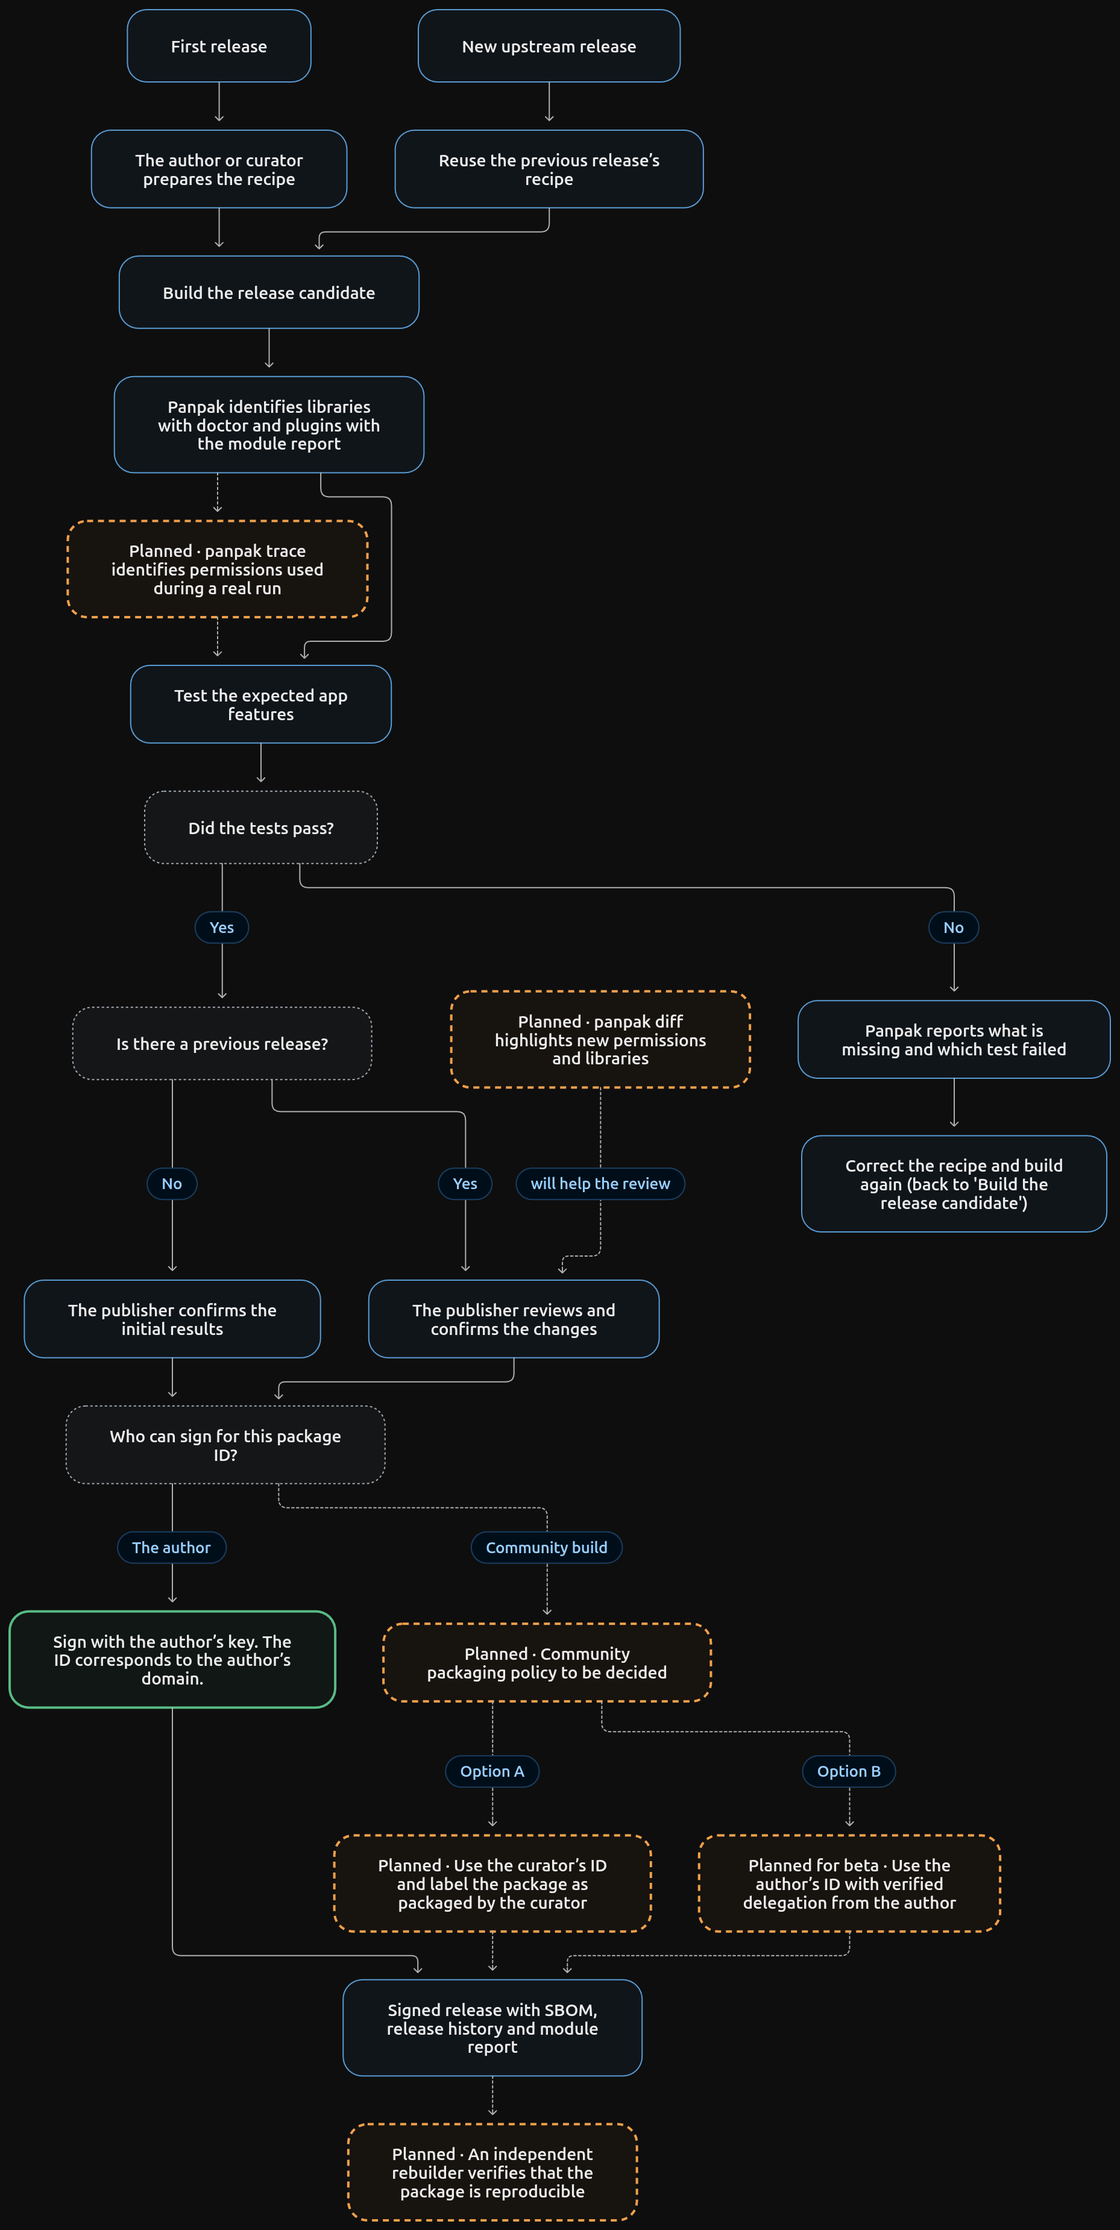
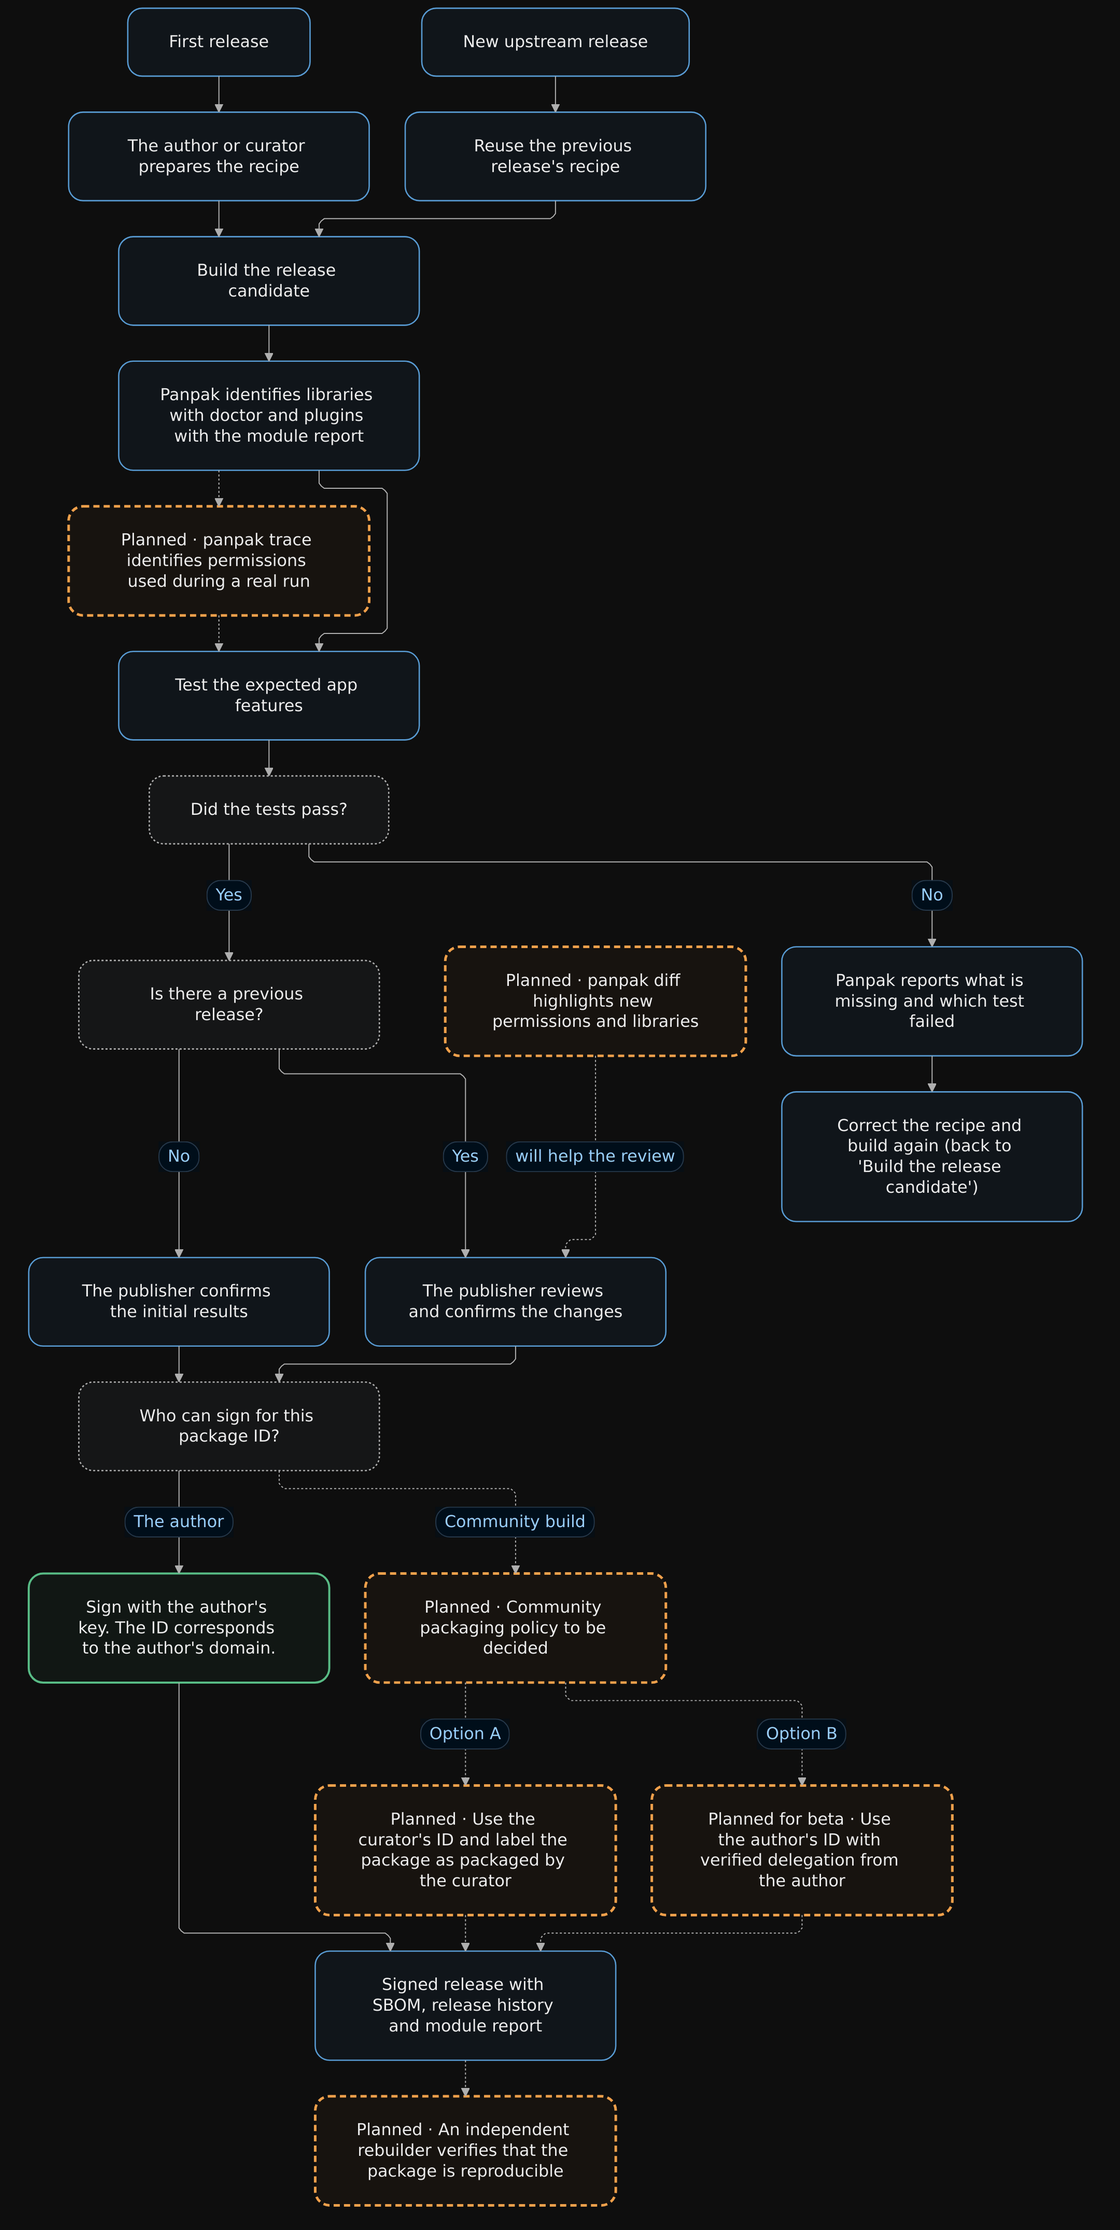
Render the workflow diagrams from their Mermaid sources

diff --git a/scripts/render-diagrams.py b/scripts/render-diagrams.py
@@ -1,0 +1,55 @@
+#!/usr/bin/env python3
+"""Render the Mermaid sources and both responsive image formats used on How it works."""
+
+import os
+from pathlib import Path
+import subprocess
+import tempfile
+
+from PIL import Image, ImageOps
+
+ROOT = Path(__file__).resolve().parents[1]
+DIAGRAMS = Path("static/images/diagrams")
+RENDERER = (
+    "ghcr.io/mermaid-js/mermaid-cli/mermaid-cli:11.12.0"
+    "@sha256:bad64c9d9ad917c8dfbe9d9e9c162b96f6615ff019b37058638d16eb27ce7783"
+)
+BACKGROUND = "#0e0e0e"
+CANVASES = {
+    "from-app-to-package": (1858, 3700),
+    "from-package-to-user": (2014, 4200),
+}
+
+
+def main():
+    # Stage both diagrams before replacing any published image.
+    with tempfile.TemporaryDirectory(dir=ROOT) as work:
+        staged = Path(work)
+        for name, size in CANVASES.items():
+            raw = staged / f"{name}.png"
+            subprocess.run(
+                [
+                    "docker", "run", "--rm", "--network", "none",
+                    "--user", f"{os.getuid()}:{os.getgid()}",
+                    "-v", f"{ROOT}:/data:ro", "-v", f"{staged}:/out",
+                    RENDERER, "-i", str(DIAGRAMS / f"{name}.mmd"),
+                    "-o", f"/out/{raw.name}", "-c", "scripts/mermaid-config.json",
+                    "-w", "1600", "-s", "2", "-b", BACKGROUND,
+                ],
+                check=True,
+            )
+            with Image.open(raw) as image:
+                full = ImageOps.pad(image.convert("RGB"), size, Image.Resampling.LANCZOS,
+                                    color=BACKGROUND)
+            for width in (1120, size[0]):
+                height = round(width * size[1] / size[0])
+                output = full.resize((width, height), Image.Resampling.LANCZOS)
+                output.save(staged / f"{name}-{width}.png", optimize=True)
+                output.save(staged / f"{name}-{width}.webp", lossless=True, method=6)
+
+        for asset in staged.glob("*-[0-9]*.*"):
+            asset.replace(ROOT / DIAGRAMS / asset.name)
+
+
+if __name__ == "__main__":
+    main()

diff --git a/README.md b/README.md
@@ -6,3 +6,9 @@ GitHub Actions builds pull requests with Zola v0.20.0. A push to `main` builds a
 
 ## Images
 The Panpak logo was designed by fabrizio (fabx-dev). The mascot images were generated with an AI image model for the Panpak project. The name "Panpak" and the logo are trademarks of the Panpak project: see TRADEMARKS.md in the main repository for how they may be used.
+
+## Workflow diagrams
+
+Edit the Mermaid sources in `static/images/diagrams/`, then run `python3 scripts/render-diagrams.py` with Docker and Python 3 with Pillow installed. The script runs a pinned Mermaid CLI and regenerates the full-size and 1120-pixel PNG and WebP files used on “How it works”. The shared renderer settings are in `scripts/mermaid-config.json`.
+
+For a planned feature that now exists, remove the “Planned” prefix and the `:::planned` class on its source line to use the default blue box. Review any planned connections and update the walk-through in `content/how-it-works.md` in the same change.
